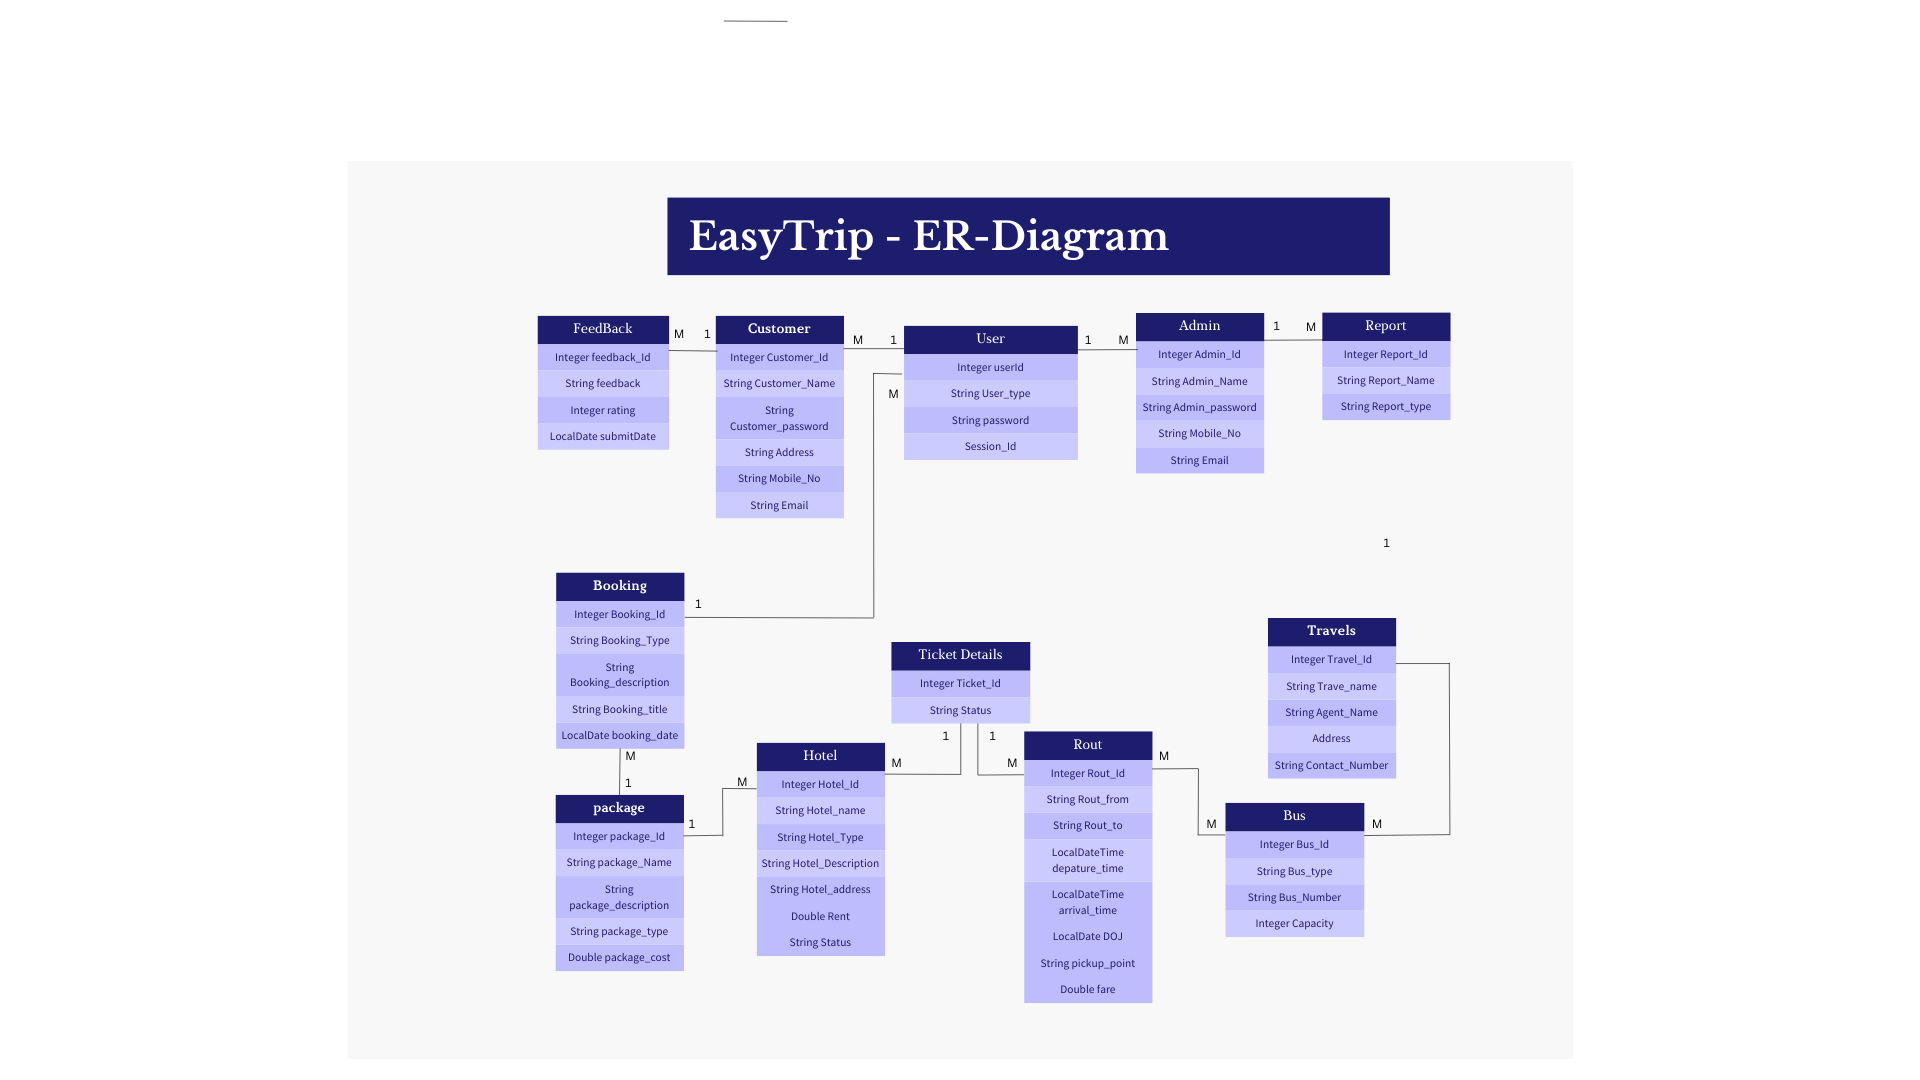
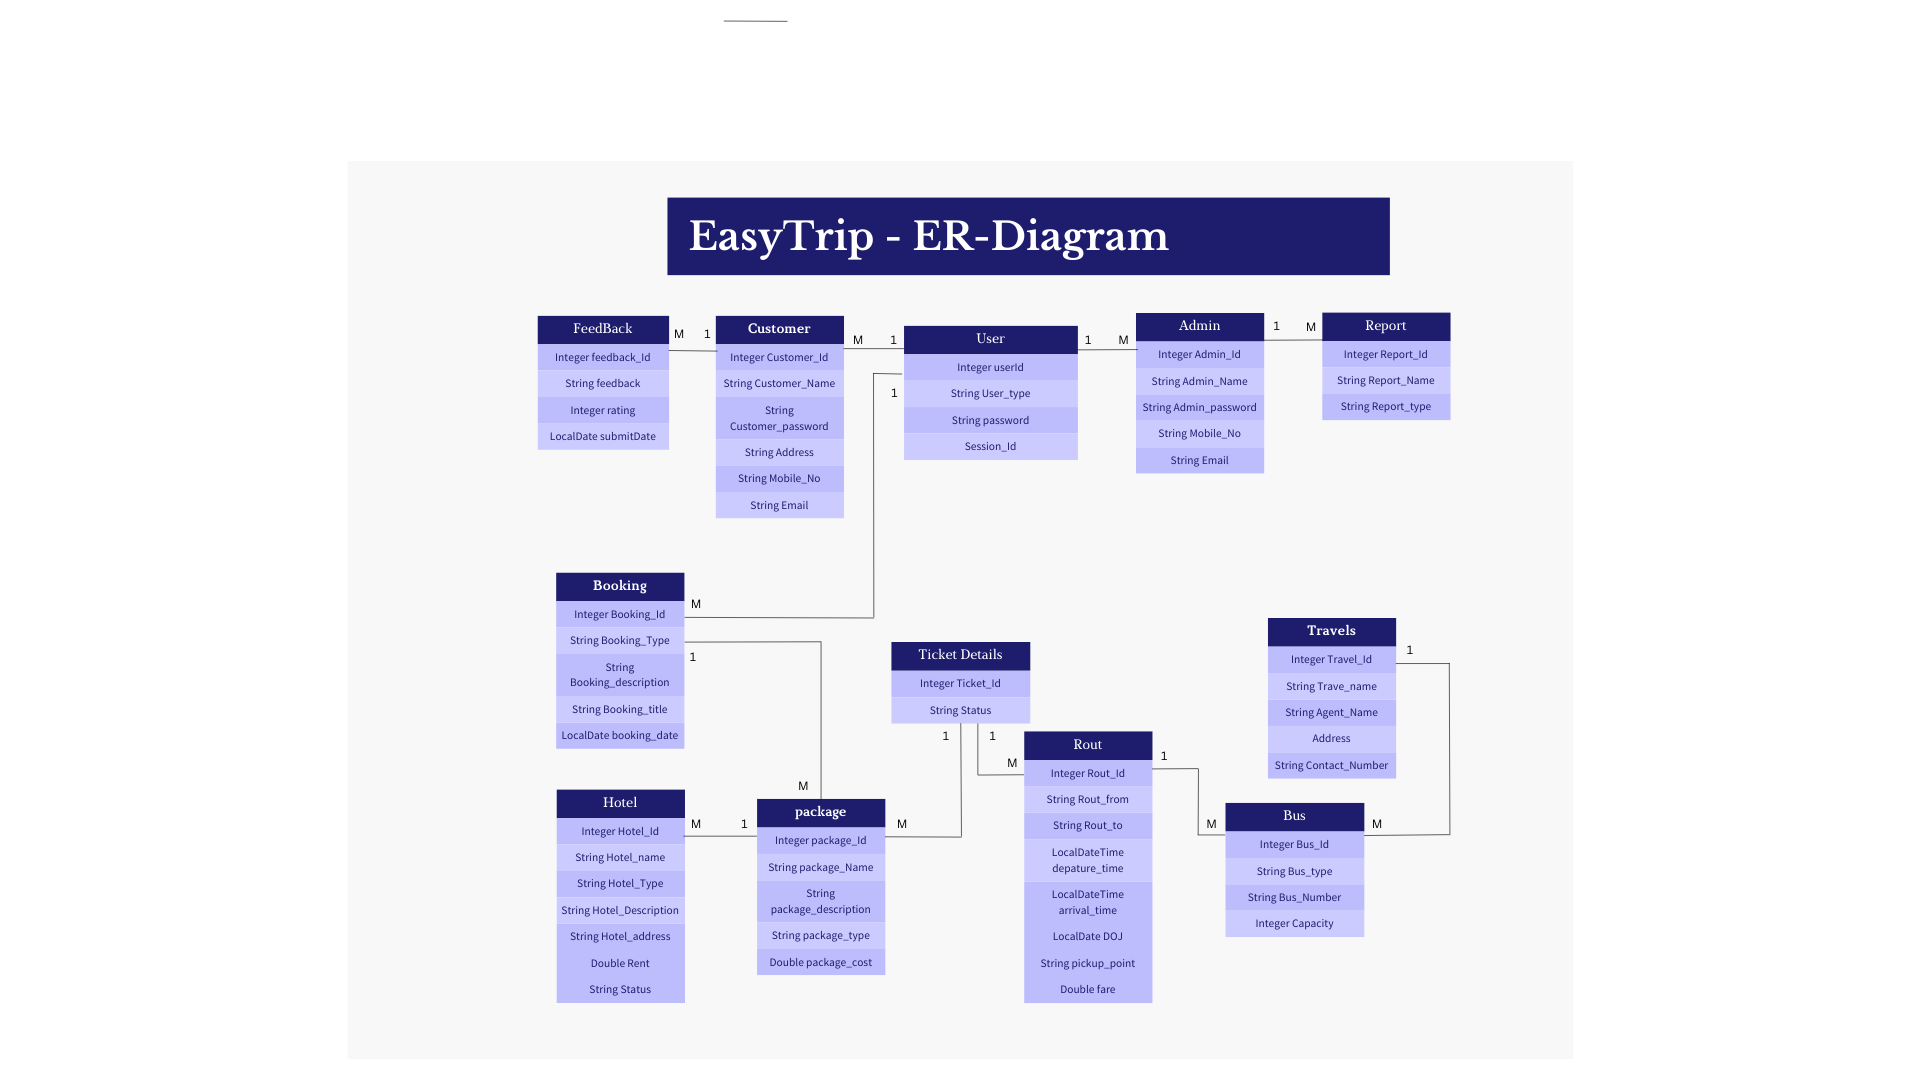
modified ERD

Changed region(s): [[0.2812, 0.6722, 0.4688, 0.9472]]

diff --git a/EasyTrip/src/main/java/com/easytrip/app/Model/Route.java b/EasyTrip/src/main/java/com/easytrip/app/Model/Route.java
@@ -10,6 +10,8 @@ import javax.persistence.Entity;
 import javax.persistence.GeneratedValue;
 import javax.persistence.GenerationType;
 import javax.persistence.Id;
+import javax.persistence.JoinColumn;
+import javax.persistence.ManyToOne;
 import javax.persistence.OneToMany;
 
 import lombok.Data;
@@ -30,4 +32,9 @@ public class Route {
 	
 	@OneToMany(cascade = CascadeType.ALL,mappedBy = "route")
 	private Set<Bus> busses= new HashSet<>();
+	
+	@ManyToOne(cascade = CascadeType.ALL)
+	@JoinColumn(name = "ticketId")
+	private TicketDetails ticketDetails; 
+	
 }

diff --git a/EasyTrip/src/main/java/com/easytrip/app/Model/TicketDetails.java b/EasyTrip/src/main/java/com/easytrip/app/Model/TicketDetails.java
@@ -25,6 +25,7 @@ public class TicketDetails {
 	@OneToMany(cascade = CascadeType.ALL,mappedBy = "ticket")
 	private Set<Package> packageSet = new HashSet<>();
 	
-	
+	@OneToMany(cascade = CascadeType.ALL, mappedBy = "")	
+	private Set<Route> routeSet = new HashSet<>();
 
 }
